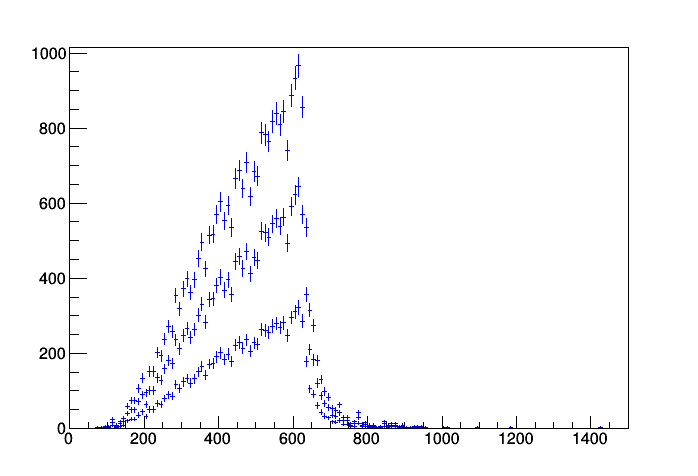
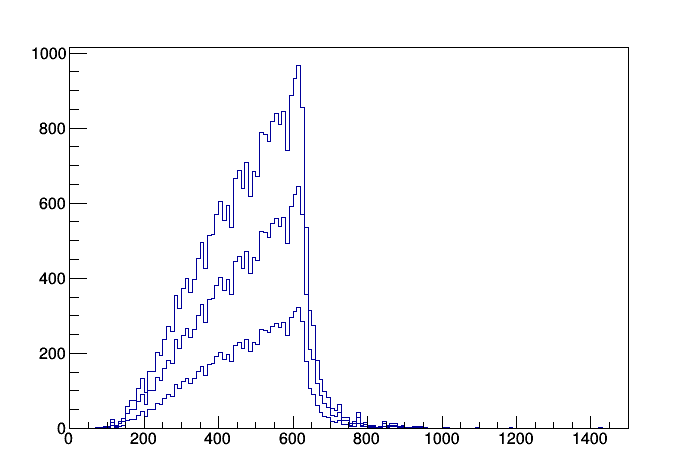
Continuing to Test Stack Plots

diff --git a/stackPlotter.py b/stackPlotter.py
@@ -4,21 +4,16 @@ path = 'root-test-files'
 files = ['QCD.root', 'TT.root', 'signal_1500_600.root']
 colors = [2, 3, 4]
 h_stack = ROOT.THStack()
+
+ROOT.gStyle.SetPalette(ROOT.kOcean)
+
 for i, f in enumerate(files):
 	filepath = '{}/{}'.format(path, f)
 	newfile = ROOT.TFile.Open(filepath, "READ")
 	h_pT1Gen = newfile.Get('pT1Gen')
-	h_pT1Gen.SetFillColor(colors[i])
-	h_pT1Gen.SetMarkerColor(colors[i])
-	h_pT1Gen.SetLineColor(colors[i])
-	h_stack.Add(h_pT1Gen)		
-	
+	#ROOT.gStyle.SetPalette(3)	
+	h_stack.Add(h_pT1Gen)	
+
 c1 = ROOT.TCanvas()
-h_stack.Draw()
+h_stack.Draw('HIST')
 c1.SaveAs('plots/test-stack.png')
-
-
-
-
- 
-
